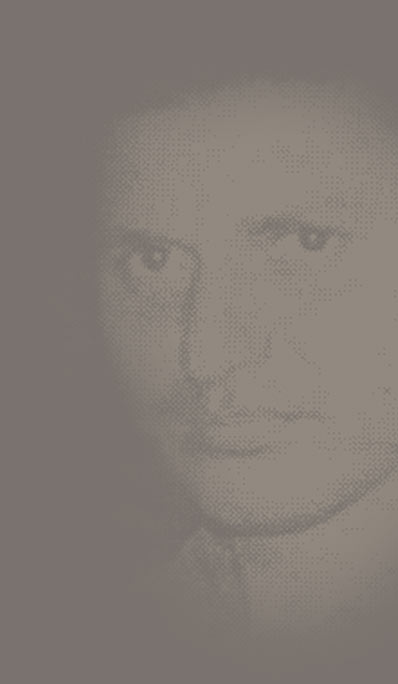
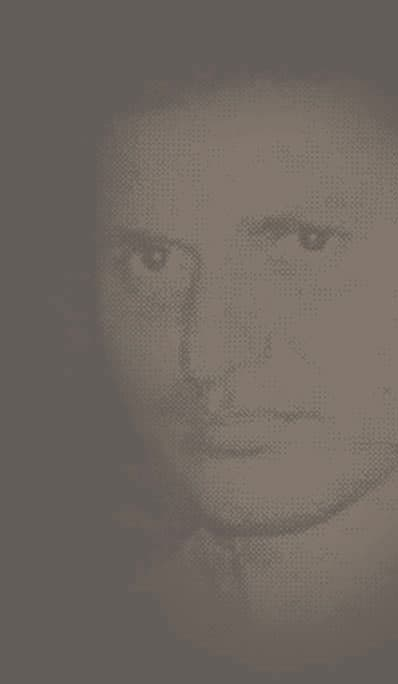
Some image optimization

diff --git a/src/screen.sass b/src/screen.sass
@@ -212,7 +212,10 @@ h1
       font-size: 20px
 
 #Acerca
-  background: url("../images/R_Morales.jpg") no-repeat right
+  background-image: url('../images/R_Morales.jpg')
+  background-image: image-set(url('../images/R_Morales.avif') type('image/avif'), url('../images/R_Morales.jpg') type('image/jpg'))
+  background-repeat: no-repeat
+  background-position: right
 
   .dot
     background: $blanco
@@ -291,7 +294,11 @@ h1
     right: 54px
 
 #Exposiciones
-  background: url(../images/silla_bg.jpg) no-repeat left bottom $blanco
+  background-image: url('../images/silla_bg.jpg')
+  background-image: image-set(url('../images/silla_bg.avif') type('image/avif'), url('../images/silla_bg.jpg') type('image/jpg'))
+  background-repeat: no-repeat
+  background-position: left bottom
+  background-color: $blanco
   .dot
     background: $gris
   .body
